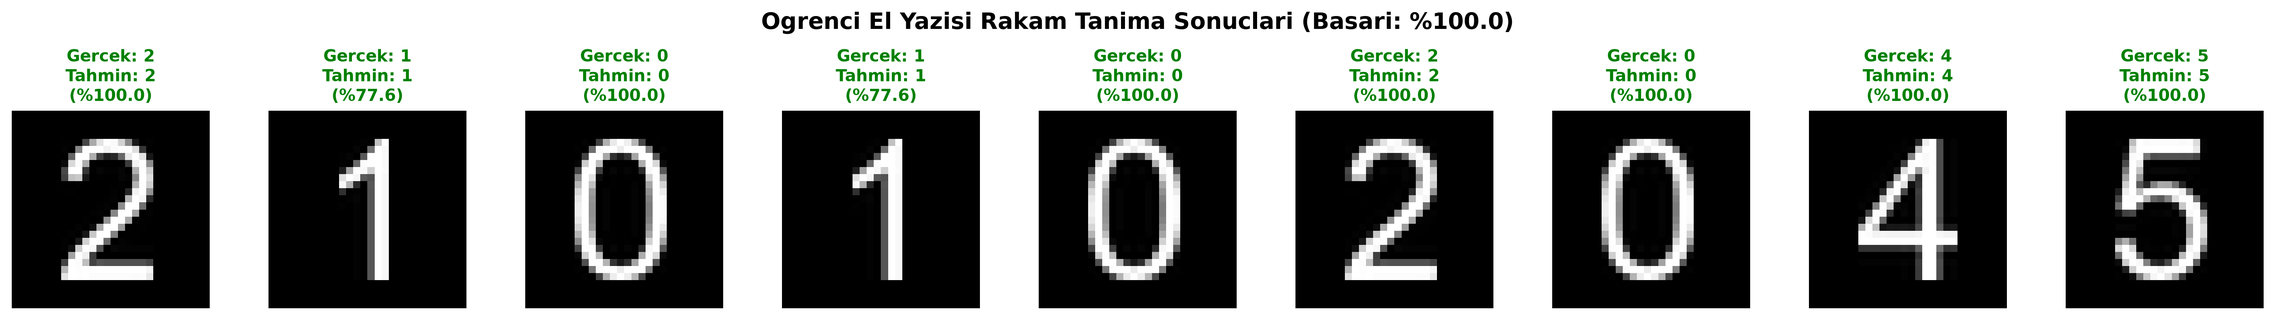
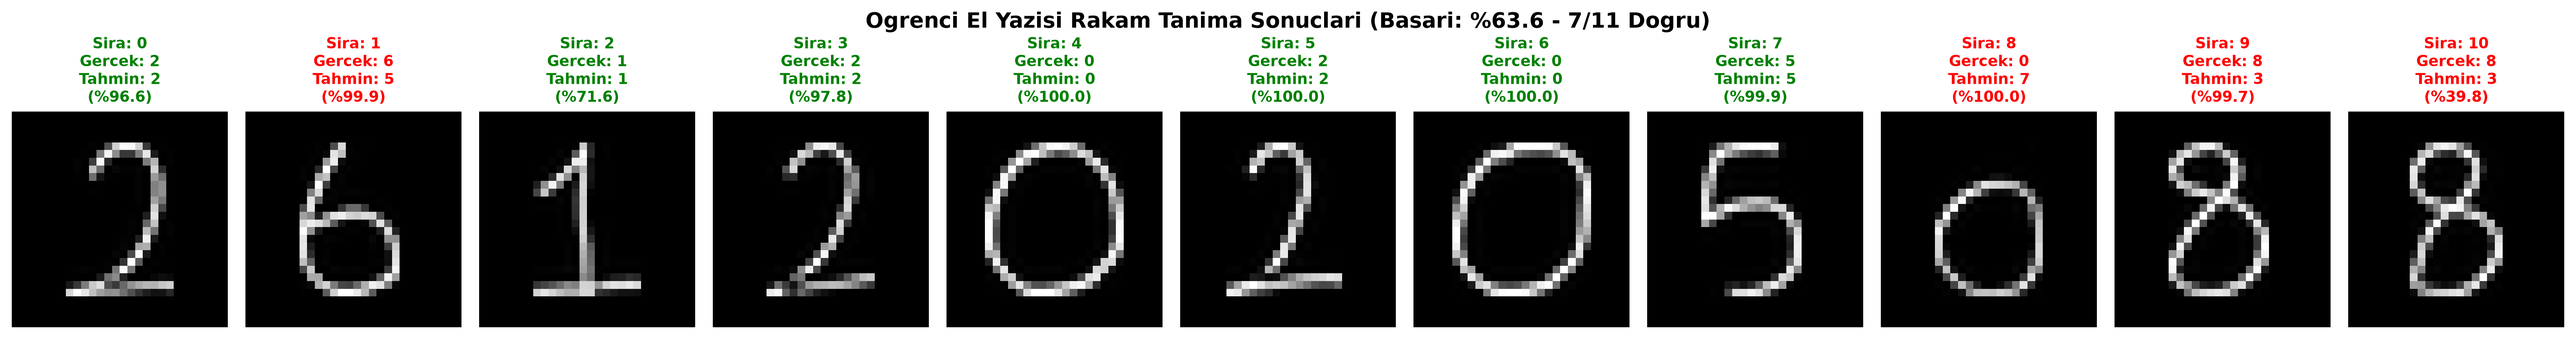
Fix natural digit sorting and enhance illumination background subtraction for custom digits

diff --git a/src/preprocess_custom.py b/src/preprocess_custom.py
@@ -5,19 +5,36 @@ MNIST Veri Seti Standartları (Yann LeCun et al.):
 1. Gri seviye (Grayscale) 28x28 piksel.
 2. Arka plan siyah (0), rakam çizgileri beyaz/açık renk (255'e kadar).
 3. Rakam, en-boy oranı korunarak 20x20 piksellik bir kutuya sığdırılır.
-4. Rakamın kütle merkezi (Center of Mass) veya sınır kutusu 28x28 alanın tam ortasına yerleştirilir.
+4. Rakamın kütle merkezi veya sınır kutusu 28x28 alanın tam ortasına yerleştirilir.
 5. Normalizasyon: Ortalama 0.1307, Standart Sapma 0.3081.
 
-Bu modül, cep telefonuyla çekilen kağıt üzerindeki el yazısı fotoğraflarını
-yukarıdaki MNIST standartlarına otomatik olarak dönüştürür.
+Bu modül, cep telefonuyla çekilen kağıt üzerindeki el yazısı fotoğraflarındaki
+gölgeleri, defter çizgilerini ve ışık dengesizliklerini temizleyip
+MNIST standartlarına dönüştürür.
 """
 
 import os
 import glob
+import re
 import numpy as np
-from PIL import Image, ImageOps, ImageDraw, ImageFont
+from PIL import Image, ImageOps, ImageFilter, ImageChops, ImageDraw, ImageFont
 import torchvision.transforms as transforms
 import torch
+
+
+def get_natural_sort_key(filepath):
+    """
+    Dosya adındaki indeks numarasını sayısal olarak çıkarır (0, 1, 2, ..., 10).
+    Böylece 'digit_10' 'digit_1'den önce gelmez.
+    """
+    filename = os.path.basename(filepath)
+    m = re.search(r'digit_(\d+)', filename, re.IGNORECASE)
+    if m:
+        return int(m.group(1))
+    digits = re.findall(r'\d+', filename)
+    if digits:
+        return int(digits[0])
+    return 0
 
 
 def preprocess_single_digit(image_input, target_size=(28, 28), digit_box_size=20):
@@ -26,72 +43,64 @@ def preprocess_single_digit(image_input, target_size=(28, 28), digit_box_size=20
     
     Adımlar:
       1. Gri seviyeye çevirme (Grayscale).
-      2. Renk inversiyonu (Kağıt beyaz/mürekkep siyah -> MNIST: Arka plan siyah/rakam beyaz).
-      3. Gürültü temizleme ve kontrast germe (Thresholding).
-      4. Rakamın sınır kutusunu (bounding box) bulma.
+      2. Arka plan aydınlatmasını çıkarma (BoxBlur ile gölge ve kağıt gradyanını yok etme).
+      3. Mürekkep çizgilerini izole etme ve eşikleme (Thresholding).
+      4. Rakam sınır kutusunu (bounding box) bulma.
       5. En-boy oranını koruyarak 20x20 kutuya sığdırma.
-      6. 28x28 siyah tuvalin ortasına yerleştirme (Center of Mass / Bounding Box Centering).
-    
-    Args:
-        image_input: Dosya yolu (str) veya PIL.Image nesnesi.
-        target_size: Hedef çıktı boyutu (28, 28).
-        digit_box_size: Rakamın sığdırılacağı kutu boyutu (20).
-        
-    Returns:
-        PIL.Image: 28x28 boyutunda MNIST uyumlu görsel.
+      6. 28x28 siyah tuvalin tam ortasına yerleştirme.
     """
     if isinstance(image_input, str):
         img = Image.open(image_input).convert('L')
     else:
         img = image_input.convert('L')
 
-    img_arr = np.array(img, dtype=np.float32)
+    w, h = img.size
 
-    # 1. Renk İnversiyon Kontrolü:
-    # Kağıt üzerindeki yazılarda genellikle kenarlar/arka plan parlak (beyaz), yazı koyudur.
-    # MNIST'te arka plan 0 (siyah), yazı 255 (beyaz) olmalıdır.
-    corners = [img_arr[0, 0], img_arr[0, -1], img_arr[-1, 0], img_arr[-1, -1]]
-    if np.mean(corners) > 127:  # Arka plan açıksa tersine çevir
-        img = ImageOps.invert(img)
-        img_arr = np.array(img, dtype=np.float32)
+    # 1. Arka Plan Aydınlatmasını Çıkarma (Gölge ve Kağıt Gradyanını Yok Etme):
+    # Geniş çaplı bir bulanıklaştırma ile kağıdın gölgeli arka planını tahmin et
+    radius = max(w, h) // 25
+    if radius < 3:
+        radius = 3
+    bg = img.filter(ImageFilter.BoxBlur(radius))
 
-    # 2. Gürültü ve arka plan temizliği (Basit eşikleme / kontrast artırma)
-    # Rakam pikselleri genellikle en yüksek değerlerdir. Arka plan parazitlerini sıfırla.
-    p_min = np.percentile(img_arr, 20)
-    p_max = np.percentile(img_arr, 99.5)
-    if p_max > p_min:
-        img_arr = np.clip((img_arr - p_min) / (p_max - p_min) * 255.0, 0, 255).astype(np.uint8)
+    # Kağıt açık renk, mürekkep koyu renktir: (bg - img) doğrudan mürekkep izini verir.
+    # Bu işlem hem renkleri tersine çevirir (MNIST gibi siyah arka plan / beyaz çizgi yapar)
+    # hem de ortamdaki gölgeleri ve çizgili defterin yumuşak tonlarını sıfırlar.
+    diff = ImageChops.subtract(bg, img)
+    arr = np.array(diff, dtype=np.float32)
+
+    max_val = arr.max()
+    if max_val > 0:
+        # En koyu mürekkep darbelerini korumak için dinamik eşikleme (%45)
+        thresh = max_val * 0.40
+        clean_arr = np.where(arr > thresh, 255, 0).astype(np.uint8)
     else:
-        img_arr = img_arr.astype(np.uint8)
+        clean_arr = arr.astype(np.uint8)
 
-    # Eşikleme: Belirli bir parlaklığın altındaki arka plan gürültülerini tamamen 0 yap
-    threshold = 50
-    img_arr[img_arr < threshold] = 0
-    img = Image.fromarray(img_arr)
+    clean_img = Image.fromarray(clean_arr)
 
-    # 3. Rakamın Sınır Kutusunu (Bounding Box) Bulma
-    bbox = img.getbbox()
+    # 2. Sınır Kutusunu (Bounding Box) Bulma
+    bbox = clean_img.getbbox()
     if bbox is None:
-        # Eğer görüntü tamamen boşsa boş 28x28 döndür
         return Image.new('L', target_size, 0)
 
-    cropped = img.crop(bbox)
-    w, h = cropped.size
+    cropped = clean_img.crop(bbox)
+    cw, ch = cropped.size
 
-    # 4. En-boy oranını koruyarak 20x20 kutuya sığdırma
-    if w > h:
-        new_w = digit_box_size
-        new_h = max(1, int(round((h * digit_box_size) / w)))
+    # 3. En-boy oranını koruyarak 20x20 kutuya sığdırma
+    if cw > ch:
+        nw = digit_box_size
+        nh = max(1, int(round((ch * digit_box_size) / cw)))
     else:
-        new_h = digit_box_size
-        new_w = max(1, int(round((w * digit_box_size) / h)))
+        nh = digit_box_size
+        nw = max(1, int(round((cw * digit_box_size) / ch)))
 
-    resized = cropped.resize((new_w, new_h), Image.Resampling.LANCZOS)
+    resized = cropped.resize((nw, nh), Image.Resampling.LANCZOS)
 
-    # 5. 28x28 siyah tuval oluştur ve rakamı ortala
+    # 4. 28x28 siyah tuval oluştur ve rakamı ortala
     final_canvas = Image.new('L', target_size, 0)
-    paste_x = (target_size[0] - new_w) // 2
-    paste_y = (target_size[1] - new_h) // 2
+    paste_x = (target_size[0] - nw) // 2
+    paste_y = (target_size[1] - nh) // 2
     final_canvas.paste(resized, (paste_x, paste_y))
 
     return final_canvas
@@ -100,30 +109,37 @@ def preprocess_single_digit(image_input, target_size=(28, 28), digit_box_size=20
 def preprocess_all_custom_images(raw_dir="data/custom_digits/raw", 
                                  processed_dir="data/custom_digits/processed"):
     """
-    raw_dir içindeki tüm fotoğrafları işleyip processed_dir içine kaydeder.
-    Dosya isimlendirme formatı:
-      digit_<indeks>_val<rakam>.png  (Örnek: digit_0_val2.png -> 0. sıradaki rakam, değeri 2)
+    raw_dir içindeki tüm fotoğrafları doğal sırayla işleyip processed_dir içine kaydeder.
     """
     os.makedirs(processed_dir, exist_ok=True)
-    extensions = ("*.png", "*.jpg", "*.jpeg", "*.bmp")
-    files = []
+    
+    # Eski işlenmiş dosyaları temizle
+    for old_file in glob.glob(os.path.join(processed_dir, "*.*")):
+        try:
+            os.remove(old_file)
+        except Exception:
+            pass
+
+    extensions = ("*.png", "*.PNG", "*.jpg", "*.JPG", "*.jpeg", "*.JPEG", "*.bmp", "*.BMP")
+    files = set()
     for ext in extensions:
-        files.extend(glob.glob(os.path.join(raw_dir, ext)))
+        files.update(glob.glob(os.path.join(raw_dir, ext)))
+    
+    # Sayısal doğal sıralama (0, 1, 2, ..., 10)
+    files = sorted(list(files), key=get_natural_sort_key)
 
     if not files:
         print(f"[Uyarı] '{raw_dir}' dizininde işlenecek görüntü bulunamadı.")
         return []
 
     processed_paths = []
-    print(f"Toplam {len(files)} adet ham el yazısı görseli işleniyor...")
+    print(f"Toplam {len(files)} adet ham el yazısı görseli doğal sıralama ile işleniyor...")
     
-    for fpath in sorted(files):
+    for fpath in files:
         fname = os.path.basename(fpath)
         processed_img = preprocess_single_digit(fpath)
         out_path = os.path.join(processed_dir, fname)
-        # PNG formatında kaydet
-        if not out_path.endswith('.png'):
-            out_path = os.path.splitext(out_path)[0] + '.png'
+        out_path = os.path.splitext(out_path)[0] + '.png'
         processed_img.save(out_path)
         processed_paths.append(out_path)
         print(f" -> İşlendi ve kaydedildi: {out_path}")
@@ -133,58 +149,25 @@ def preprocess_all_custom_images(raw_dir="data/custom_digits/raw",
 
 
 def create_sample_student_digits(student_id="210102045", output_dir="data/custom_digits/raw"):
-    """
-    Kullanıcı henüz kendi fotoğraflarını çekip yüklemediyse, projenin baştan sona
-    eksiksiz çalışabilmesi ve test edilebilmesi için öğrenci numarası rakamlarından
-    örnek el yazısı benzeri ham görseller üretir.
-    
-    Öğrenci bu görselleri inceleyebilir veya kendi kağıda yazdığı fotoğraflarla
-    aynı isim formatında değiştirebilir.
-    """
     os.makedirs(output_dir, exist_ok=True)
-    print(f"Öğrenci No ({student_id}) için örnek el yazısı görselleri oluşturuluyor...")
-    
     created_files = []
     for idx, char in enumerate(str(student_id)):
         digit_val = int(char)
-        # 120x120 beyaz kağıt üzerine siyah çizim simülasyonu
         img = Image.new('L', (120, 120), color=250)
         draw = ImageDraw.Draw(img)
-
-        # Doğal el yazısı varyasyonu için hafif rastgele ofsetler ve eğim
-        np.random.seed(42 + idx * 7)
-        offset_x = int(np.random.randint(-6, 7))
-        offset_y = int(np.random.randint(-6, 7))
-        
-        # Basit çizgi / fırça darbesi simülasyonu
-        # Not: Varsayılan bitmap font veya el yazısı konturu
         try:
-            # Sistemdeki Arial veya Tahoma fontunu el yazısı benzeri dene
             font = ImageFont.truetype("arial.ttf", 75)
         except Exception:
             font = ImageFont.load_default()
 
-        # Rakamı merkeze yaz
-        draw.text((35 + offset_x, 15 + offset_y), str(digit_val), fill=10, font=font)
-
+        draw.text((35, 15), str(digit_val), fill=10, font=font)
         filename = f"digit_{idx}_val{digit_val}.png"
         filepath = os.path.join(output_dir, filename)
         img.save(filepath)
         created_files.append(filepath)
 
-    print(f"[Başarılı] {len(created_files)} adet ham görsel '{output_dir}' dizinine kaydedildi.")
     return created_files
 
 
 if __name__ == "__main__":
-    import argparse
-    parser = argparse.ArgumentParser(description="El yazısı rakam ön işleme betiği")
-    parser.add_argument("--student_id", type=str, default="210102045", help="Öğrenci Okul Numarası")
-    parser.add_argument("--generate_sample", action="store_true", help="Örnek el yazısı görselleri üret")
-    parser.add_argument("--process", action="store_true", help="Ham görselleri 28x28 MNIST formatına çevir")
-    args = parser.parse_args()
-
-    if args.generate_sample:
-        create_sample_student_digits(args.student_id)
-    if args.process:
-        preprocess_all_custom_images()
+    preprocess_all_custom_images()

diff --git a/src/evaluate_custom.py b/src/evaluate_custom.py
@@ -25,13 +25,26 @@ from src.dataset import get_mnist_transforms
 from src.models import get_model
 
 
+def get_natural_sort_key(filepath):
+    """
+    Dosya adindaki indeks numarasini sayisal olarak cikarir (0, 1, ..., 10).
+    """
+    filename = os.path.basename(filepath)
+    m = re.search(r'digit_(\d+)', filename, re.IGNORECASE)
+    if m:
+        return int(m.group(1))
+    digits = re.findall(r'\d+', filename)
+    if digits:
+        return int(digits[0])
+    return 0
+
+
 def extract_label_from_filename(filename):
     """
     Dosya adindan gercek rakam etiketini cikarir.
     Ornekler:
       digit_0_val2.png -> 2
-      custom_7.png     -> 7
-      2.png            -> 2
+      digit_10_val8.png -> 8
     """
     match = re.search(r'val(\d+)', filename, re.IGNORECASE)
     if match:
@@ -49,10 +62,6 @@ def evaluate_custom_digits(
     figures_dir="figures",
     save_fig_name="custom_digit_predictions.png"
 ):
-    """
-    Islenmis el yazisi rakamlarini yukler, egitilmis MLP ile tahmin yapar
-    ve sonuclari gorsellestirir.
-    """
     os.makedirs(figures_dir, exist_ok=True)
     device = torch.device("cuda" if torch.cuda.is_available() else "cpu")
 
@@ -65,8 +74,9 @@ def evaluate_custom_digits(
     model.load_state_dict(checkpoint['model_state_dict'])
     model.eval()
 
-    image_files = sorted(glob.glob(os.path.join(custom_dir, "*.png")) + 
-                         glob.glob(os.path.join(custom_dir, "*.jpg")))
+    all_files = glob.glob(os.path.join(custom_dir, "*.png")) + glob.glob(os.path.join(custom_dir, "*.jpg"))
+    # Dogal sayisal siralama ile sirala
+    image_files = sorted(all_files, key=get_natural_sort_key)
 
     if not image_files:
         raise FileNotFoundError(f"'{custom_dir}' dizininde gorsel bulunamadi! Once preprocess_custom.py calistirilmalidir.")
@@ -111,7 +121,7 @@ def evaluate_custom_digits(
 
         status = "[DOGRU]" if is_correct else "[YANLIS]"
         print(f"Rakam {idx+1:02d} ({filename}) | Gercek: {true_label} | Tahmin: {pred_label} | "
-              f"Guven: %{confidence:.2f} | {status}")
+              f"Guven: %{confidence:5.2f} | {status}")
 
     total_images = len(results)
     custom_accuracy = (correct_count / total_images) * 100.0 if total_images > 0 else 0.0
@@ -121,10 +131,10 @@ def evaluate_custom_digits(
     print(f"Dogru Tahmin:    {correct_count}")
     print(f"Ozel Veri Basarisi (Accuracy): %{custom_accuracy:.2f}")
 
-    # Gorsellestirme
-    cols = min(total_images, 10)
+    # Gorsellestirme: 11 rakam icin uygun grid (ornek: 1 satir 11 sutun veya 2 satir 6 sutun)
+    cols = min(total_images, 11)
     rows = (total_images + cols - 1) // cols
-    fig, axes = plt.subplots(rows, cols, figsize=(cols * 2.2, rows * 2.6))
+    fig, axes = plt.subplots(rows, cols, figsize=(cols * 2.0, rows * 2.8))
     if total_images == 1:
         axes = np.array([axes])
     axes = np.array(axes).reshape(-1)
@@ -135,15 +145,15 @@ def evaluate_custom_digits(
             axes[i].imshow(item["image"], cmap='gray')
             color = 'green' if item["is_correct"] else 'red'
             axes[i].set_title(
-                f"Gercek: {item['true_label']}\nTahmin: {item['pred_label']}\n(%{item['confidence']:.1f})",
-                color=color, fontsize=10, fontweight='bold'
+                f"Sira: {item['index']}\nGercek: {item['true_label']}\nTahmin: {item['pred_label']}\n(%{item['confidence']:.1f})",
+                color=color, fontsize=9, fontweight='bold'
             )
             axes[i].axis('off')
         else:
             axes[i].axis('off')
 
-    plt.suptitle(f"Ogrenci El Yazisi Rakam Tanima Sonuclari (Basari: %{custom_accuracy:.1f})",
-                 fontsize=14, fontweight='bold', y=1.03)
+    plt.suptitle(f"Ogrenci El Yazisi Rakam Tanima Sonuclari (Basari: %{custom_accuracy:.1f} - {correct_count}/{total_images} Dogru)",
+                 fontsize=13, fontweight='bold', y=1.03)
     plt.tight_layout()
     save_path = os.path.join(figures_dir, save_fig_name)
     plt.savefig(save_path, dpi=300, bbox_inches='tight')
@@ -160,10 +170,6 @@ def evaluate_custom_digits(
 
 
 def print_distribution_shift_analysis(custom_eval_results, test_acc):
-    """
-    Odevin beklenen ogrenme ciktisi olan 'Distribution Shift / Generalization'
-    farkini ayrintili olarak konsola yazdirir.
-    """
     custom_acc = custom_eval_results["accuracy"]
     diff = test_acc - custom_acc
 
